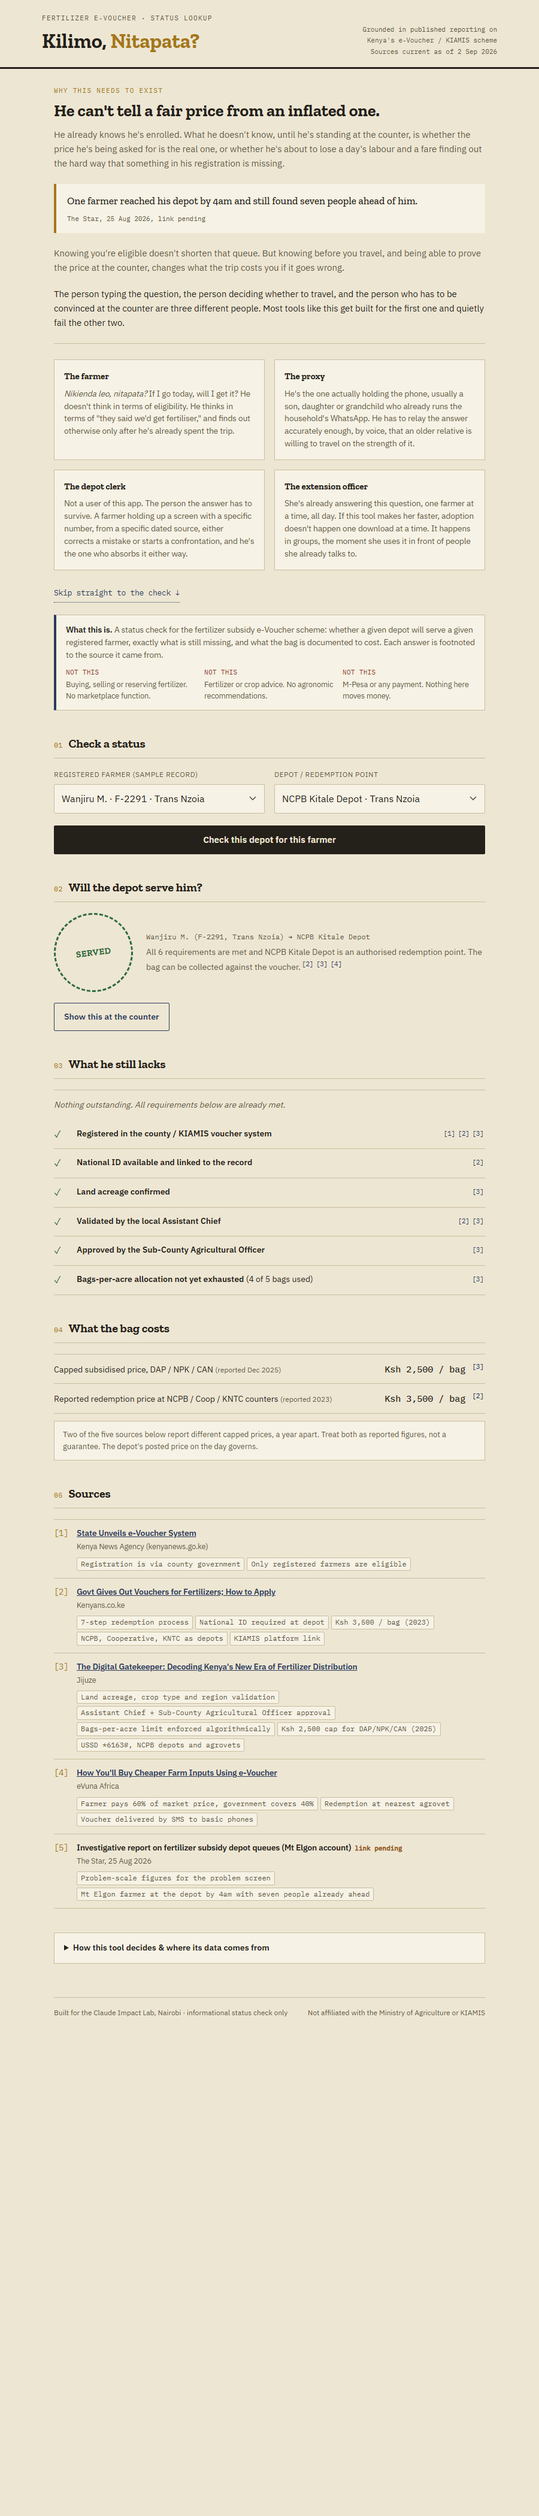
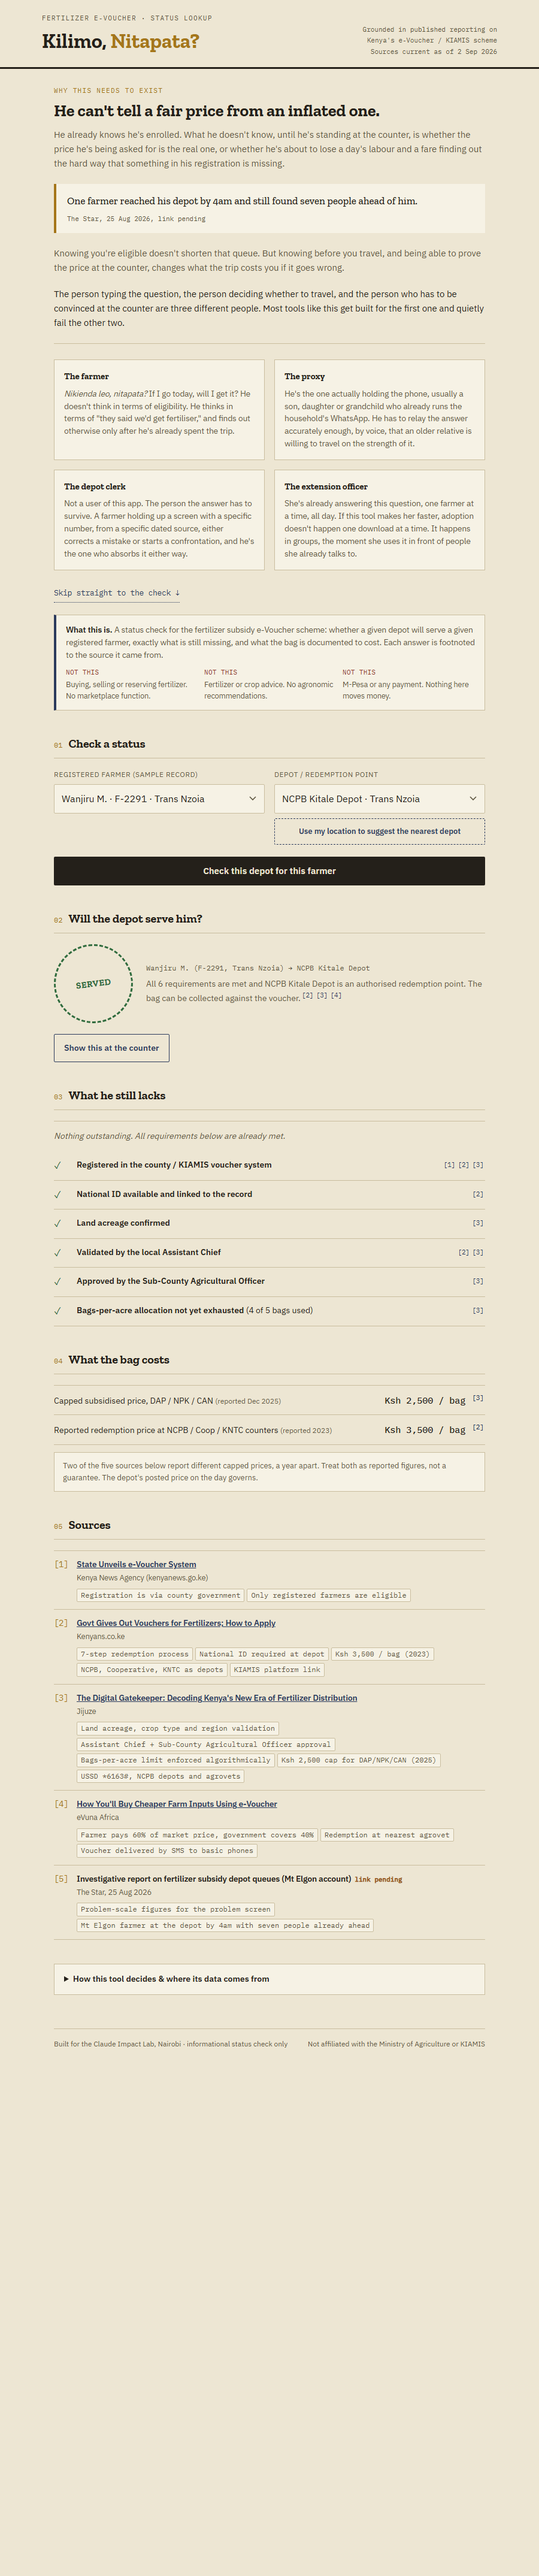
Milestone B: location/GPS depot suggestion; open issue for Milestone A
Milestone B (location) ships complete. Milestone A (USSD) is tracked
as issue #1 rather than built now, per the sequencing decided during
plan review: B first, no external dependencies; A second, needs an
Africa's Talking sandbox signup.

- engine.js: each depot gained a coords field (hand-built town-centre
  approximations, explicitly labelled approx, no public depot-address
  list exists). Added haversineKm() and nearestDepots(), the latter
  returns authorised depots only, sorted nearest first. 3 new tests
  (12/12 total), including the one that matters most: an unauthorised
  depot never appears even when it is geographically the closest
  (tested from Kisumu, where an authorised and unauthorised depot
  share a town).
- index.html: "Use my location" control next to the depot picker.
  Success re-sorts the picker and auto-selects the nearest authorised
  depot with its approximate distance shown. Denial, timeout, or an
  unsupported browser leaves the full manual picker untouched, matching
  MILESTONES.md's own warning that a judge's device may deny location
  in the room. Verified live for both paths, plus no overflow at 320px.
- fallback/01-checker-served.png recaptured to include the new control.
- MILESTONES.md / FOUNDATION.md / PROGRESS.md / TESTING.md updated;
  Milestone B marked done with a pointer to what shipped, Milestone A
  still carries its full original spec.

GitHub issue #1 opened for Milestone A, spec carried over from
[…]

diff --git a/index.html b/index.html
@@ -243,6 +243,17 @@
     display:inline-block; margin-top:22px; font-family:'IBM Plex Mono',monospace; font-size:12.5px;
     color:var(--stamp); text-decoration:none; border-bottom:1px dotted var(--stamp); padding:6px 0;
   }
+
+  /* Milestone B: location-based depot suggestion */
+  button.use-location{
+    display:block; width:100%; margin-top:8px; padding:11px 12px; font:inherit; font-size:13px; font-weight:600;
+    background:transparent; color:var(--stamp); border:1px dashed var(--stamp); border-radius:2px; cursor:pointer;
+  }
+  button.use-location:hover{ background:var(--paper-raised); }
+  button.use-location:disabled{ opacity:.55; cursor:default; }
+  .location-status{ margin-top:8px; font-size:12.5px; color:var(--ink-soft); line-height:1.5; }
+  .location-status.is-error{ color:var(--warn); }
+  select option.nearest-tag{ font-weight:600; }
 </style>
 </head>
 <body>
@@ -314,6 +325,8 @@
       <div class="field">
         <label for="depot-select">Depot / redemption point</label>
         <select id="depot-select"></select>
+        <button class="use-location" id="use-location-btn" type="button">Use my location to suggest the nearest depot</button>
+        <div class="location-status" id="location-status" hidden></div>
       </div>
     </div>
     <button class="check" id="check-btn" type="button">Check this depot for this farmer</button>
@@ -385,7 +398,7 @@
 </div>
 
 <script type="module">
-  import { SOURCES, PRICES, FARMERS, DEPOTS, VERDICT_LABEL, evaluate, findFarmer, findDepot, clerkSummary } from './engine.js';
+  import { SOURCES, PRICES, FARMERS, DEPOTS, VERDICT_LABEL, evaluate, findFarmer, findDepot, clerkSummary, nearestDepots } from './engine.js';
 
   const $ = (id) => document.getElementById(id);
 
@@ -399,7 +412,63 @@
   }
 
   fillSelect($('farmer-select'), FARMERS, (f) => f.name + ' · ' + f.id + ' · ' + f.county);
-  fillSelect($('depot-select'), DEPOTS, (d) => d.name + ' · ' + d.county);
+
+  function fillDepotSelect(orderedDepots, distanceMap){
+    $('depot-select').innerHTML = orderedDepots.map((d) => {
+      const dist = distanceMap && distanceMap.has(d.id)
+        ? ' · ~' + distanceMap.get(d.id).toFixed(1) + ' km away'
+        : '';
+      return '<option value="' + d.id + '">' + d.name + ' · ' + d.county + dist + '</option>';
+    }).join('');
+  }
+
+  fillDepotSelect(DEPOTS);
+
+  function setLocationStatus(text, isError){
+    const el = $('location-status');
+    el.textContent = text;
+    el.hidden = !text;
+    el.classList.toggle('is-error', Boolean(isError));
+  }
+
+  function useMyLocation(){
+    if(!navigator.geolocation){
+      setLocationStatus('Location is not available on this browser. Pick your depot manually below.', true);
+      return;
+    }
+    const btn = $('use-location-btn');
+    btn.disabled = true;
+    setLocationStatus('Locating...');
+    navigator.geolocation.getCurrentPosition(
+      (pos) => {
+        btn.disabled = false;
+        const { latitude, longitude } = pos.coords;
+        const nearest = nearestDepots(latitude, longitude);
+        const nearestIds = new Set(nearest.map((d) => d.id));
+        const rest = DEPOTS.filter((d) => !nearestIds.has(d.id));
+        const distanceMap = new Map(nearest.map((d) => [d.id, d.distanceKm]));
+        fillDepotSelect([...nearest, ...rest], distanceMap);
+        $('depot-select').value = nearest[0].id;
+        setLocationStatus(
+          'Nearest authorised depot: ' + nearest[0].name + ', about ' + nearest[0].distanceKm.toFixed(1) +
+          ' km away (approximate town-centre distance, not the depot\'s exact address). Pick a different one below if you prefer.'
+        );
+        render();
+      },
+      (err) => {
+        btn.disabled = false;
+        const messages = {
+          1: 'Location permission denied. Pick your depot manually below, that still works fully.',
+          2: 'Location unavailable right now. Pick your depot manually below.',
+          3: 'Location took too long to respond. Pick your depot manually below.'
+        };
+        setLocationStatus(messages[err.code] || 'Could not get your location. Pick your depot manually below.', true);
+      },
+      { timeout: 8000 }
+    );
+  }
+
+  $('use-location-btn').addEventListener('click', useMyLocation);
 
   function renderSources(){
     $('sources-ledger').innerHTML = SOURCES.map((s) => {

diff --git a/engine.js b/engine.js
@@ -83,13 +83,16 @@ export const FARMERS = [
     bagsUsed: 1, bagsAllocated: 4 }
 ];
 
+// coords are town-centre approximations, not the depot's actual address, per
+// MILESTONES.md Milestone B: no public list of depot coordinates was found,
+// so this is an honest hand-built interim stand-in, always shown as approx.
 export const DEPOTS = [
-  { id: "D-01", name: "NCPB Kitale Depot", county: "Trans Nzoia", type: "NCPB depot", authorized: true, fertilizers: ["DAP", "NPK", "CAN"] },
-  { id: "D-02", name: "NCPB Eldoret Depot", county: "Uasin Gishu", type: "NCPB depot", authorized: true, fertilizers: ["DAP", "NPK", "CAN"] },
-  { id: "D-03", name: "Highland Farmers Cooperative Store", county: "Nandi", type: "Cooperative", authorized: true, fertilizers: ["DAP", "NPK"] },
-  { id: "D-04", name: "KNTC Kisumu Warehouse", county: "Kisumu", type: "KNTC warehouse", authorized: true, fertilizers: ["DAP", "NPK", "CAN"] },
-  { id: "D-05", name: "Mama Otieno's Agrovet", county: "Kisumu", type: "Independent agrovet (unlisted)", authorized: false, fertilizers: ["DAP", "NPK"] },
-  { id: "D-06", name: "Kericho Agrovet Hub", county: "Kericho", type: "Registered agrovet", authorized: true, fertilizers: ["DAP", "NPK", "CAN"] }
+  { id: "D-01", name: "NCPB Kitale Depot", county: "Trans Nzoia", type: "NCPB depot", authorized: true, fertilizers: ["DAP", "NPK", "CAN"], coords: { lat: 1.0157, lng: 35.0062, approx: true } },
+  { id: "D-02", name: "NCPB Eldoret Depot", county: "Uasin Gishu", type: "NCPB depot", authorized: true, fertilizers: ["DAP", "NPK", "CAN"], coords: { lat: 0.5143, lng: 35.2698, approx: true } },
+  { id: "D-03", name: "Highland Farmers Cooperative Store", county: "Nandi", type: "Cooperative", authorized: true, fertilizers: ["DAP", "NPK"], coords: { lat: 0.2027, lng: 35.1049, approx: true } },
+  { id: "D-04", name: "KNTC Kisumu Warehouse", county: "Kisumu", type: "KNTC warehouse", authorized: true, fertilizers: ["DAP", "NPK", "CAN"], coords: { lat: -0.0917, lng: 34.7680, approx: true } },
+  { id: "D-05", name: "Mama Otieno's Agrovet", county: "Kisumu", type: "Independent agrovet (unlisted)", authorized: false, fertilizers: ["DAP", "NPK"], coords: { lat: -0.0917, lng: 34.7680, approx: true } },
+  { id: "D-06", name: "Kericho Agrovet Hub", county: "Kericho", type: "Registered agrovet", authorized: true, fertilizers: ["DAP", "NPK", "CAN"], coords: { lat: -0.3676, lng: 35.2861, approx: true } }
 ];
 
 export const PRICES = [
@@ -162,6 +165,30 @@ export function evaluate(farmer, depot) {
 export const findFarmer = (id) => FARMERS.find((f) => f.id === id);
 export const findDepot = (id) => DEPOTS.find((d) => d.id === id);
 export const findSource = (id) => SOURCES.find((s) => s.id === id);
+
+const EARTH_RADIUS_KM = 6371;
+
+/** Great-circle distance between two lat/lng points, in kilometres. */
+export function haversineKm(lat1, lng1, lat2, lng2) {
+  const toRad = (deg) => (deg * Math.PI) / 180;
+  const dLat = toRad(lat2 - lat1);
+  const dLng = toRad(lng2 - lng1);
+  const a = Math.sin(dLat / 2) ** 2 +
+    Math.cos(toRad(lat1)) * Math.cos(toRad(lat2)) * Math.sin(dLng / 2) ** 2;
+  return EARTH_RADIUS_KM * 2 * Math.asin(Math.sqrt(a));
+}
+
+/**
+ * Authorised depots only, sorted nearest first to (lat, lng), each with a
+ * distanceKm field. Unauthorised depots never appear here, however close,
+ * matching Milestone B: "suggested depot is the nearest authorised one."
+ */
+export function nearestDepots(lat, lng) {
+  return DEPOTS
+    .filter((d) => d.authorized)
+    .map((d) => ({ ...d, distanceKm: haversineKm(lat, lng, d.coords.lat, d.coords.lng) }))
+    .sort((a, b) => a.distanceKm - b.distanceKm);
+}
 
 /**
  * The single most important thing standing between this farmer and a bag,

diff --git a/test/engine.test.js b/test/engine.test.js
@@ -1,6 +1,6 @@
 import { test } from "node:test";
 import assert from "node:assert/strict";
-import { FARMERS, DEPOTS, REQUIREMENTS, SOURCES, PRICES, evaluate, VERDICT_LABEL, blockingItem, clerkSummary } from "../engine.js";
+import { FARMERS, DEPOTS, REQUIREMENTS, SOURCES, PRICES, evaluate, VERDICT_LABEL, blockingItem, clerkSummary, haversineKm, nearestDepots } from "../engine.js";
 
 const pairs = FARMERS.flatMap((f) => DEPOTS.map((d) => [f, d]));
 
@@ -80,6 +80,29 @@ test("clerk summary agrees with evaluate and resolves every citation", () => {
     assert.ok(s.sources.length > 0);
     for (const src of s.sources) assert.ok(src && src.id, `${f.id} x ${d.id} unresolved source`);
   }
+});
+
+test("haversineKm is zero for identical points and symmetric", () => {
+  assert.equal(haversineKm(1.0157, 35.0062, 1.0157, 35.0062), 0);
+  const a = haversineKm(1.0157, 35.0062, -0.0917, 34.7680);
+  const b = haversineKm(-0.0917, 34.7680, 1.0157, 35.0062);
+  assert.ok(Math.abs(a - b) < 1e-9);
+});
+
+test("nearestDepots: from Kitale, Kitale's own depot is nearest and within a few km", () => {
+  const results = nearestDepots(1.0157, 35.0062);
+  assert.equal(results[0].id, "D-01");
+  assert.ok(results[0].distanceKm < 1, `expected near-zero distance, got ${results[0].distanceKm}`);
+  for (let i = 1; i < results.length; i++) {
+    assert.ok(results[i].distanceKm >= results[i - 1].distanceKm, "not sorted ascending");
+  }
+});
+
+test("nearestDepots: from Kisumu, the unauthorised agrovet never appears even though it's closest", () => {
+  const kisumuDepot = DEPOTS.find((d) => d.id === "D-04");
+  const results = nearestDepots(kisumuDepot.coords.lat, kisumuDepot.coords.lng);
+  assert.ok(!results.some((d) => d.id === "D-05"), "unauthorised depot D-05 leaked into nearestDepots");
+  assert.equal(results[0].id, "D-04");
 });
 
 test("house style: no em dashes anywhere in engine text", () => {

diff --git a/tasks/wip.md b/tasks/wip.md
@@ -2,36 +2,28 @@
 
 Read this first when resuming. Overwrite it whenever the in-progress task changes. Empty "In progress" means nothing was mid-flight.
 
-**Last updated:** 2 Sep 2026, after step 6
+**Last updated:** 2 Sep 2026, after Milestone B and Milestone A issue
 
 ## In progress
 
-Nothing mid-flight. V1's core build sequence (steps 0 through 6) is complete and committed.
+Nothing mid-flight. Milestone B is complete and committed; Milestone A is tracked as [issue #1](https://github.com/14leux/kilimo-nitapata/issues/1), unowned.
 
 ## Next up
 
-Nothing on the core build is blocking. Remaining work is:
-1. Milestone B (location), sequenced first, unowned.
-2. Milestone A (USSD), sequenced second, unowned.
-3. Whichever of A/B don't ship, the pitch already handles that honestly (see PITCH.md, close section).
+Nothing on the core build or Milestone B is blocking. Only remaining build item is Milestone A (USSD), issue #1, whenever someone picks it up.
 
 ## Waiting on Mailu
 
-- Source 5 (The Star, 25 Aug 2026): real headline and URL. Not blocking, the problem screen and pitch both already work without it; the "link pending" notes clear themselves once the URL is added to `engine.js`.
-- A citable source for the depot/ward scale figures in MILESTONES.md (103 NCPB depots, 281 last-mile points, 1,382 wards), if one exists.
+- Source 5 (The Star, 25 Aug 2026): real headline and URL. Not blocking.
+- A citable source for the depot/ward scale figures in MILESTONES.md, if one exists.
 - Vercel: connect the repo, confirm production URL.
-- Owners for Milestones B and A; GitHub issues (team already has collaborator access: uxvic, KodeckJames, Kajim360, and uxvic has forked the repo).
+- Owner for Milestone A (issue #1). Team already has collaborator access: uxvic, KodeckJames, Kajim360.
 
 ## Done today
 
 - Repo seeded and pushed: `github.com/14leux/kilimo-nitapata` (private).
-- Plan review; decisions logged in FOUNDATION.md §9.
-- Step 0: rule engine extracted, prototype folded into repo, Vercel-ready layout.
-- Step 1: counter-presentable clerk view.
-- PROGRESS.md and TESTING.md added; every documented scenario verified live before writing it up.
-- Step 2: mobile polish (citation tap targets, iOS select zoom fix).
-- Step 3: problem screen, original headline (not a fabricated quote attributed to source 5), Mt Elgon pull-quote correctly cited.
-- Design skills installed globally (`emilkowalski/skills`, 12 skills, repocheck CLEAR). Africa's Talking MCP investigated and NOT installed, wrong platform (Mac-only Claude Desktop instructions), SMS-only, doesn't serve Milestone A's actual USSD need.
-- Step 4: QA.md, three scripted answers (sourcing, no agronomic advice, why USSD vs *6163#).
-- Step 5: PITCH.md, talk track, fair-price opening matching the app's own headline.
-- Step 6: fallback/ screenshots (checker+Served, clerk+Conditional), captured via headless Chrome using a small `#clerk-demo` capture-only hook in index.html.
+- Steps 0 through 6 (rule engine, clerk view, mobile polish, problem screen, Q&A, pitch, static fallback). All documented in PROGRESS.md / TESTING.md, every claim verified live before writing it up.
+- Design skills installed globally (`emilkowalski/skills`, 12 skills). Africa's Talking MCP investigated and rejected (wrong platform, SMS-only, doesn't serve the USSD need); noted in Milestone A's issue instead.
+- Milestone B (location/GPS depot suggestion): `engine.js` gained `coords` on each depot (hand-built town-centre approximations, labelled as such) and `nearestDepots(lat, lng)` (authorised-only, sorted, 3 new tests, 12/12 total). `index.html` gained a "Use my location" control with a full manual fallback on denial. Verified live: correct nearest-depot selection, unauthorised depot correctly excluded even when closest (tested from Kisumu), denial path leaves all 6 depots selectable, no overflow at 320px.
+- Fallback screenshot recaptured to include the new location control.
+- GitHub issue #1 opened for Milestone A (USSD), full spec carried over from MILESTONES.md plus the MCP rejection noted so nobody re-investigates it.

diff --git a/PROGRESS.md b/PROGRESS.md
@@ -17,7 +17,8 @@ Living log of what has actually shipped, against the sequence in [FOUNDATION.md 
 | 4 | Scripted Q&A answers | DONE | (this push) |
 | 5 | Pitch narrative (fair-price lead) | DONE | (this push) |
 | 6 | Static fallback capture | DONE | (this push) |
-| 7 | Milestone B (location), then Milestone A (USSD) | Open for team, unowned | |
+| 7a | Milestone B (location) | DONE | (this push) |
+| 7b | Milestone A (USSD) | Not started, [issue #1](https://github.com/14leux/kilimo-nitapata/issues/1) open | |
 
 ---
 
@@ -106,6 +107,19 @@ Living log of what has actually shipped, against the sequence in [FOUNDATION.md 
 - `fallback/README.md`, what each image shows and the exact command to recapture them.
 
 **Test:** see [TESTING.md, Step 6](TESTING.md#step-6-fallback).
+
+---
+
+## Step 7a, Milestone B: location / GPS depot suggestion
+
+**Date:** 2 Sep 2026
+**What changed:**
+- `engine.js`: each depot record gained a `coords` field (`{ lat, lng, approx: true }`), hand-built town-centre approximations per MILESTONES.md, since no public list of real depot coordinates exists. Added `haversineKm(lat1, lng1, lat2, lng2)` and `nearestDepots(lat, lng)`, the latter returns **authorised depots only**, sorted nearest first, each with a `distanceKm`. Three new tests (12/12 total): distance is zero for identical points and symmetric, the nearest depot from a known position is correct and results are sorted, and, the important one, an unauthorised depot never appears in the results even when it is geographically the closest (tested from Kisumu, where the unauthorised agrovet and the authorised KNTC warehouse share a town).
+- `index.html`: a "Use my location" button next to the depot picker. On success, the depot dropdown is rebuilt with authorised depots first (nearest first, each showing its approximate distance) followed by the rest, the nearest is auto-selected, and a status line names it. On denial, timeout, or an unsupported browser, a status message explains why and the picker is left exactly as it was, fully usable, nothing about the manual flow changes.
+
+**Why the manual fallback matters more than the happy path:** MILESTONES.md flagged that a judge's own device may deny or mis-report location in the room, so the pitch's critical path should never run through a live permission prompt. Verified by mocking `navigator.geolocation` to simulate both a permission-denied error and a successful position; the denied case leaves all 6 depots selectable and re-enables the button rather than leaving it stuck.
+
+**Test:** see [TESTING.md, Step 7a](TESTING.md#step-7a-milestone-b).
 
 ---
 

diff --git a/TESTING.md b/TESTING.md
@@ -126,6 +126,31 @@ If `npm test` fails on a machine that isn't yours, don't chase it silently, say 
 
 ---
 
+## Step 7a, Milestone B
+
+**Automated:** `npm test`, now 12/12. Three new tests cover `haversineKm` and `nearestDepots`, including the one that matters most: an unauthorised depot never appears in the results even when it is the closest.
+
+**Manual, in the browser:**
+
+1. Open DevTools console and run, before clicking anything:
+   ```js
+   navigator.geolocation.getCurrentPosition = (ok) => ok({ coords: { latitude: -0.0917, longitude: 34.7680 } });
+   ```
+   This simulates a position in Kisumu, home to both an authorised depot (KNTC Kisumu Warehouse) and an unauthorised one (Mama Otieno's Agrovet), the sharpest test of the ranking rule.
+2. Click "Use my location to suggest the nearest depot". The status line should name KNTC Kisumu Warehouse as nearest, at approximately 0.0 km, and the depot dropdown should already have it selected.
+3. Open the depot dropdown. KNTC Kisumu Warehouse should be first, Mama Otieno's Agrovet should be last with no distance shown, confirm the unauthorised depot was excluded from the ranking, not just sorted to the bottom by coincidence.
+4. Click "Check this depot for this farmer". The verdict should compute normally against whichever depot is selected, the reorder doesn't break the checker.
+5. Reload the page (undoing the mock), then run this instead:
+   ```js
+   navigator.geolocation.getCurrentPosition = (ok, err) => err({ code: 1 });
+   ```
+   Click "Use my location" again. The status line should explain permission was denied, in an visibly different (warning) style from the success message, all 6 depots should still be present and selectable, and the button should not be stuck disabled.
+6. At 320px width, confirm the location button and status text don't overflow horizontally and remain tappable.
+
+**Pass condition:** all 6 checks pass, `npm test` shows 12/12, zero console errors in either the success or denied path.
+
+---
+
 ## Adding a new section
 
 Same rule as PROGRESS.md: copy the block below, fill it in, and do it in the same push that marks the step DONE.

diff --git a/FOUNDATION.md b/FOUNDATION.md
@@ -149,7 +149,7 @@ The GitHub repository exists as of 2 Sep (private, `14leux/kilimo-nitapata`), so
 | Item | Depends on | Owner | Required for | Status |
 |---|---|---|---|---|
 | USSD channel: build or cut | Hours remaining after core V1 is solid; requires extracting the rule engine into a shared module first | Team, via GitHub, per MILESTONES.md | V1 stretch / V2 | PENDING, fully scoped |
-| GPS/location depot suggestion: build or cut | Hours remaining after core V1 is solid | Team, via GitHub, per MILESTONES.md | V1 stretch / V2 | PENDING, fully scoped |
+| GPS/location depot suggestion: build or cut | Hours remaining after core V1 is solid | Team, via GitHub, per MILESTONES.md | V1 stretch / V2 | **DONE 2 Sep**, see PROGRESS.md Step 7a |
 | Create the GitHub repository and add it as a remote | | Mailu | Team contribution to the two milestones above | DONE 2 Sep: `github.com/14leux/kilimo-nitapata`, private. Collaborator invites still to be sent once milestone 1 is accepted |
 | Source 5 (The Star, 25 Aug 2026): exact headline, article URL | Mailu has the article | Mailu | Sources ledger and problem-screen pull-quote both currently show "link pending" | PENDING, engine entry exists with an empty URL. Not blocking: the problem screen shipped 2 Sep using an original headline plus the Mt Elgon anecdote, which the existing entry already grounds |
 | A citable source for depot/ward scale figures (103 NCPB depots, 281 last-mile points, 1,382 wards, from MILESTONES.md) | Research, or confirm these came from one of sources 1 to 5 and add the citation | Mailu | Would strengthen the problem screen, not required for it | PENDING, deliberately left out of the problem screen rather than cited without grounding |

diff --git a/README.md b/README.md
@@ -32,7 +32,7 @@ Deploys to Vercel from this repo: framework preset "Other", no build command, ou
 
 ## Status
 
-V1 (hackathon build) core is functionally complete: steps 0 through 6 are done, see `PROGRESS.md` for what and `TESTING.md` for how to verify it yourself. What's left is entirely non-code: source 5's real link, and Milestones B (Location, first) and A (USSD, second), both open and unowned. See `MILESTONES.md` for build steps and test conditions if you want to pick one up; both can start now.
+V1 (hackathon build) core is functionally complete, steps 0 through 6, plus Milestone B (location), are done. See `PROGRESS.md` for what and `TESTING.md` for how to verify it yourself. What's left: source 5's real link, and Milestone A (USSD), open and unowned, see `MILESTONES.md` for the build steps and test condition.
 
 ## Non-negotiable constraints
 

diff --git a/MILESTONES.md b/MILESTONES.md
@@ -10,7 +10,9 @@ The repository is live at `github.com/14leux/kilimo-nitapata` (private). Open is
 
 ---
 
-## Milestone B: Location / GPS depot suggestion (first)
+## Milestone B: Location / GPS depot suggestion (first), DONE 2 Sep 2026
+
+See [PROGRESS.md, Step 7a](PROGRESS.md#step-7a-milestone-b-location--gps-depot-suggestion) for what shipped and [TESTING.md, Step 7a](TESTING.md#step-7a-milestone-b) to verify it. Left below for reference on the original spec and reasoning.
 
 **What it proves:** the app can point a farmer toward the nearest depot without him first knowing which one to pick, closing the gap between "here's a list" and "here's the one near you."
 
